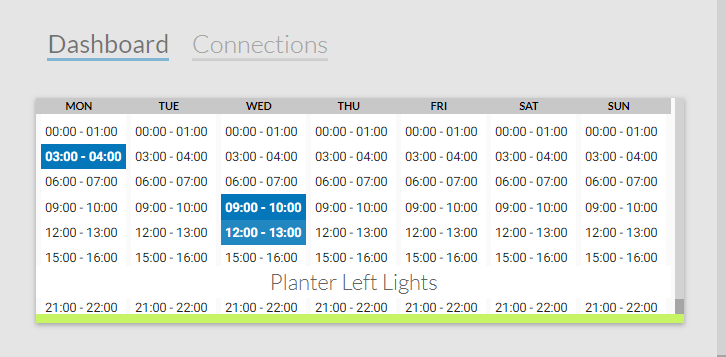
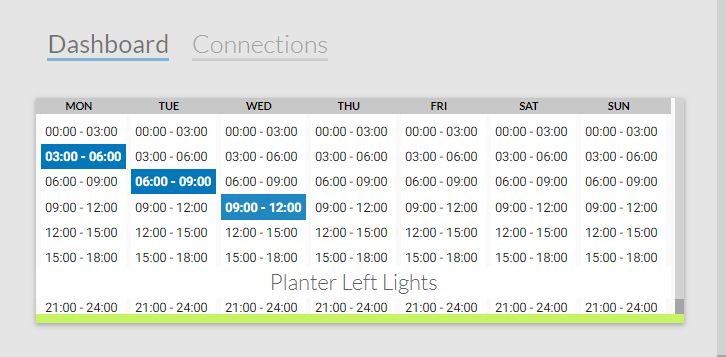
Docs and Weekview updated

diff --git a/html/assim-weekview.html b/html/assim-weekview.html
@@ -156,7 +156,7 @@
                             var endVal = "";
                             var endMins = ((j + 1) * mins);
                             if (endMins == 60) {
-                                endVal = this.pad(i + 1, 2) + ":00";
+                                endVal = this.pad(i + this.intervalHourIncrement, 2) + ":00";
                             } else {
                                 endVal = this.pad(i, 2) + ":" + this.pad(endMins, 2);
                             }

diff --git a/README.md b/README.md
@@ -30,7 +30,11 @@ Show/hide cards from "Device card"
 
 ![Weekview Card](https://github.com/IOT-123/AssimilateCrouton/raw/master/images/assim-weekview-2a.png)
 
+### Weekview 3 hour intervals
 
+![Weekview Card](https://github.com/IOT-123/AssimilateCrouton/raw/master/images/assim-weekview-3.png)
+
+![Weekview Card](https://github.com/IOT-123/AssimilateCrouton/raw/master/images/assim-weekview-3a.png)
 
 ### assim-device
 
